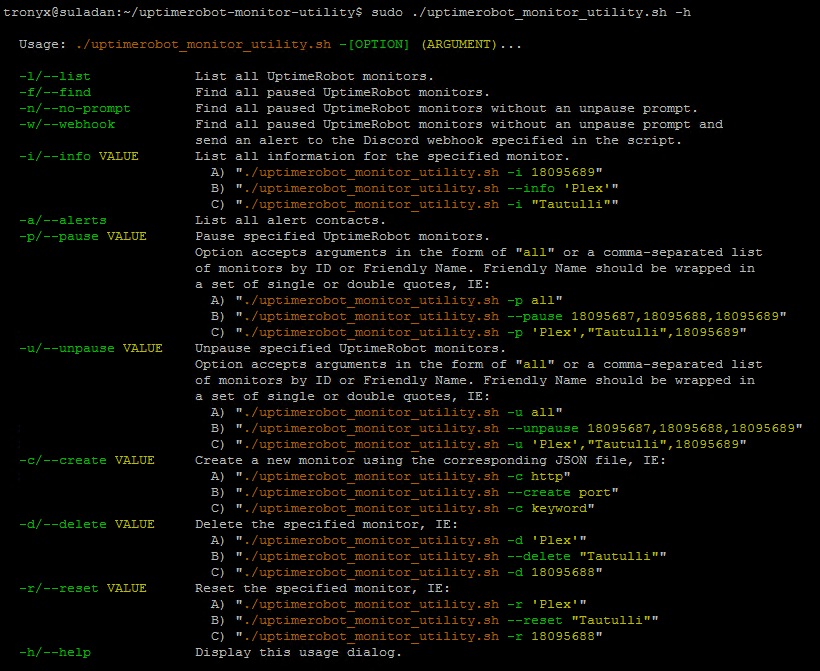
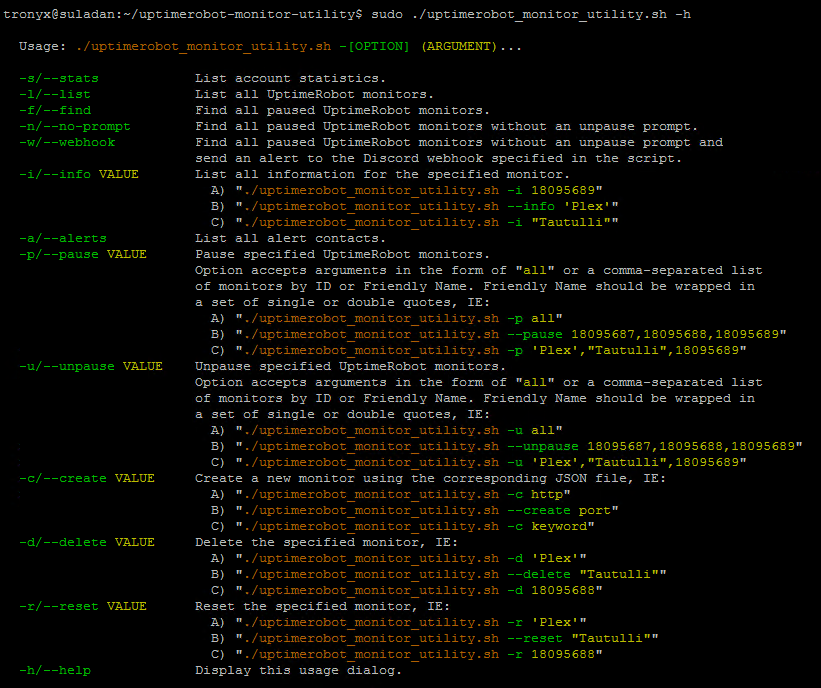
Added account stats functionality

diff --git a/README.md b/README.md
@@ -63,7 +63,30 @@ If you use the alert option, be sure to also enter in your Discord webhook URL.
 ![Script Usage](/Images/usage.png)
 
 ## Examples
+### Get account statistics
+
+Display basic statistics for your account:
+
+```json
+tronyx@suladan:~/uptimerobot-monitor-utility$ sudo ./uptimerobot_monitor_utility.sh -s
+Here are the basic statistics for your UptimeRobot account:
+
+{
+ "stat": "ok",
+ "account": {
+   "email": "me@domain.com",
+   "monitor_limit": 50,
+   "monitor_interval": 5,
+   "up_monitors": 14,
+   "down_monitors": 0,
+   "paused_monitors": 0
+ }
+}
+```
+
 ### List all monitors
+
+Display all monitors associated with your account and their current status:
 
 ```json
 tronyx@suladan:~/uptimerobot-monitor-utility$ sudo ./uptimerobot_monitor_utility.sh -l
@@ -75,6 +98,8 @@ Tautulli (ID: 780859975) - Status: Seems down
 ```
 
 ### Find paused monitors
+
+Find and display all monitors in your account that are currently paused:
 
 ```json
 tronyx@suladan:~/uptimerobot-monitor-utility$ sudo ./uptimerobot_monitor_utility.sh -f
